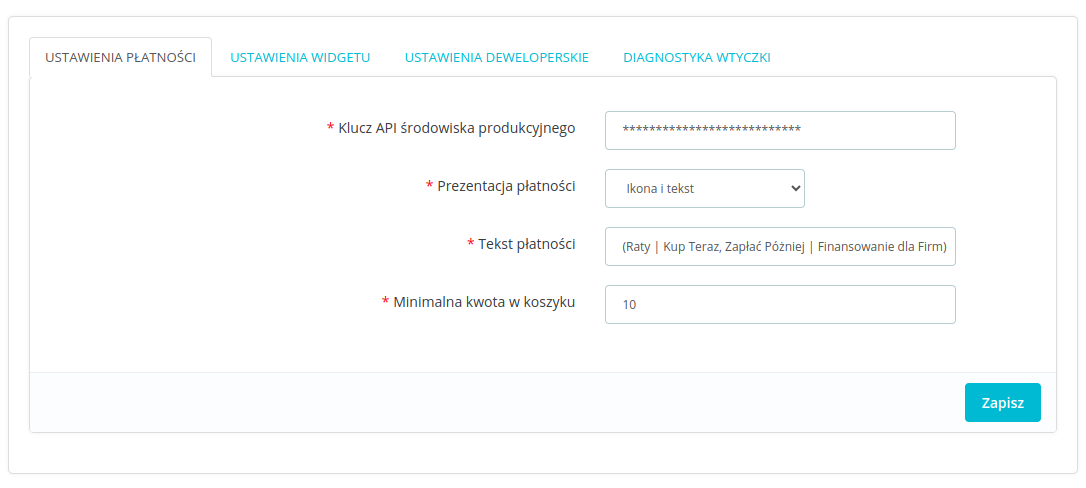
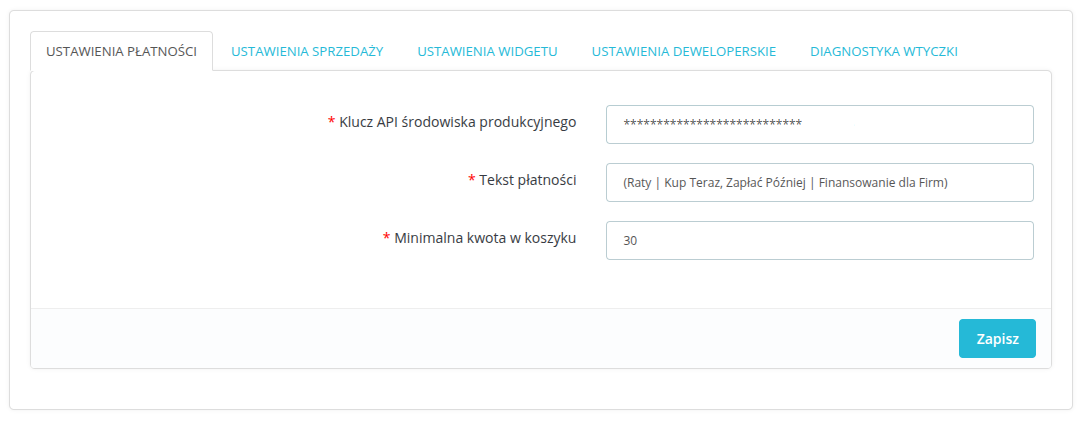
FN-12563 Documentation updated (PL version).

diff --git a/controllers/front/paywallitemdetails.php b/controllers/front/paywallitemdetails.php
@@ -66,6 +66,7 @@ class ComfinoPaywallItemDetailsModuleFrontController extends ModuleFrontControll
         );
 
         if (empty($loanTypeSelected)) {
+            // Financial product type not passed - return empty response.
             exit($serializer->serialize(['listItemData' => '', 'productDetails' => '']));
         }
 

diff --git a/docs/comfino.pl.md b/docs/comfino.pl.md
@@ -37,7 +37,6 @@ Pola parametrów konfiguracyjnych:
 **USTAWIENIA PŁATNOŚCI**
 
 * **Klucz API środowiska produkcyjnego** — unikalny klucz dostępowy umożliwiający komunikację modułu z API Comfino (otrzymasz go od przedstawiciela Comfino)
-* **Prezentacja płatności** — sposób prezentacji Comfino na liście metod płatności [`Tylko ikona`, `Tylko tekst`, `Ikona i tekst`]
 * **Tekst płatności** — tekst wyświetlany na liście metod płatności (domyślnie `"(Raty | Kup Teraz, Zapłać Później | Finansowanie dla Firm)"`)
 * **Minimalna kwota w koszyku** — wartość koszyka, od której dostępna jest płatność Comfino (domyślnie: 30 zł)
 
@@ -47,21 +46,23 @@ Pola parametrów konfiguracyjnych:
 
 Zakładka zawiera ustawienia dotyczące zarządzania sprzedażą.
 
-Reguły dostępności produktów finansowych (filtry kategorii produktowych) umożliwiają przypisanie płatności Comfino do określonych kategorii produktów. Filtry kategorii są podzielone na sekcje odpowiadające dostępnym metodom finansowania zakupów w ramach umowy zawartej z Comfino. Ponadto zarządzanie dostępnością płatności Comfino jest możliwe tylko dla następujących typów produktów finansowych: "Raty zero procent", "Zapłać później". Jeśli zawarta umowa nie zawiera jednej z tych pozycji lub wszystkich, to zakładka będzie zawierała listę drzew ograniczonych do tej jednej metody finansowania lub będzie zawierać listę drzew dla pozostałych typów produktów z umowy, w przypadku braku obecności w umowie produktów "Raty zero procent" i "Zapłać później". 
+Reguły dostępności produktów finansowych (filtry kategorii produktowych) umożliwiają przypisanie płatności Comfino do określonych kategorii produktów. Filtry kategorii są podzielone na sekcje odpowiadające dostępnym metodom finansowania zakupów w ramach umowy zawartej z Comfino. Ponadto zarządzanie dostępnością płatności Comfino jest możliwe tylko dla następujących typów produktów finansowych: "Raty zero procent", "Zapłać później", "Leasing". Jeśli zawarta umowa nie zawiera jednej z tych pozycji lub wszystkich, to zakładka będzie zawierała listę drzew ograniczonych do tej jednej metody finansowania lub będzie zawierać listę drzew dla pozostałych typów produktów z umowy, w przypadku braku obecności w umowie produktów "Raty zero procent", "Zapłać później" i "Leasing". 
 
 Domyślnie płatności Comfino są dostępne bezwarunkowo dla wszystkich typów produktów. W celu wyłączenia Comfino dla wybranych typów produktów należy odznaczyć odpowiednie kategorie w drzewie kategorii dla każdego typu oferty finansowej i kliknąć "Zapisz".
 
-![Konfiguracja](images/pl/configuration6.png "Konfiguracja")
+![Konfiguracja](images/pl/configuration2.png "Konfiguracja")
 
 **USTAWIENIA WIDGETU**
 
 **Ustawienia podstawowe**
 
 * **Widget włączony?** — przełącznik aktywacji/deaktywacji widgetu promocyjnego na stronie produktu
-* **Typ widgetu** — sposób prezentacji widgetu [`Widget tekstowy`, `Widget graficzny z banerem`, `Widget graficzny z kalkulatorem rat`, `Widget graficzny z rozszerzonym kalkulatorem rat`]
-* **Typ oferty** — typ promowanej oferty finansowania [`Raty zero procent`, `Niskie raty`, `Zapłać później`, `Odroczone płatności dla firm`]
+* **Typ widgetu** — sposób prezentacji widgetu [`Kalkulator rat`, `Rozszerzony kalkulator - produkty`]
+* **Typy ofert** — typy promowanych ofert finansowania [`Raty zero procent`, `Niskie raty`, `Zapłać później`, `Raty dla firm`, `Odroczone płatności dla firm`, `Leasing`]
 
 Dostępność typów ofert na liście jest uzależniona od indywidualnej umowy i może różnić się od tej opisanej w dokumentacji.
+
+![Konfiguracja](images/pl/configuration3a.png "Konfiguracja")
 
 **Ustawienia zaawansowane**
 
@@ -74,14 +75,20 @@ Dostępność typów ofert na liście jest uzależniona od indywidualnej umowy i
 
 Szczegółowe informacje o działaniu widgetu i jego opcjach konfiguracyjnych znajdziesz w osobnej [dokumentacji widgetu Comfino](https://comfino.pl/widgets/comfino-prestashop/pl).
 
-![Konfiguracja](images/pl/configuration2.png "Konfiguracja")
+![Konfiguracja](images/pl/configuration3b.png "Konfiguracja")
 
 **USTAWIENIA DEWELOPERSKIE**
 
 * **Użyj środowiska testowego** — przełącznik aktywacji/deaktywacji trybu deweloperskiego
 * **Klucz API środowiska testowego** — unikalny klucz dostępowy umożliwiający komunikację modułu z testowym API Comfino
+* **Tryb debugowania** — przełącznik aktywacji/deaktywacji trybu debugowania
+* **Tryb serwisowy** — przełącznik aktywacji/deaktywacji trybu serwisowego
 
-![Konfiguracja](images/pl/configuration3.png "Konfiguracja")
+Tryb debugowania przydaje się w przypadku problemów z dostępnością płatności Comfino. W tym trybie moduł rejestruje szczegóły wewnętrznego procesu odpowiedzialnego za wyświetlenie opcji płatności Comfino na liście metod płatności. Zaleca się korzystać z tej opcji wraz z aktywacją drugiej opcji `"Tryb serwisowy"` w celu minimalizacji zapisywanych logów.
+
+Tryb serwisowy jest przydatny do testowania bramki płatniczej Comfino bez konieczności udostępniania jej klientom. W tym trybie metoda płatności Comfino widoczna jest tylko dla wybranych sesji, a logi debugowania są zbierane wyłącznie dla tych sesji.
+
+![Konfiguracja](images/pl/configuration4.png "Konfiguracja")
 
 **Uwaga**
 
@@ -90,14 +97,12 @@ Przed uruchomieniem płatności na sklepie produkcyjnym, wyłącz tryb deweloper
 **DIAGNOSTYKA WTYCZKI**
 
 Zakładka zawiera informacje techniczne o wtyczce i środowisku (wersja wtyczki, wersja sklepu, wersja PHP i serwera www, itp.).\
-Zawiera też listę ostatnich błędów wraz z podglądem lokalnego dziennika błędów (log błędów).
+Zawiera też listę ostatnich błędów wraz z podglądem lokalnego dziennika błędów (log błędów) oraz listę z zapisanymi w trybie debug operacjami wewnętrznymi wtyczki (log trybu debugowania).
 
-![Konfiguracja](images/pl/configuration4.png "Konfiguracja")
+![Konfiguracja](images/pl/configuration5.png "Konfiguracja")
 
 Informacja o aktywności trybu deweloperskiego jest wyświetlana w zakładkach `"USTAWIENIA PŁATNOŚCI"` i `"DIAGNOSTYKA WTYCZKI"`.
 W trybie tym wtyczka używa klucza z zakładki `"USTAWIENIA DEWELOPERSKIE"` do komunikacji z testowym API Comfino. Klucz środowiska testowego również otrzymasz od przedstawiciela Comfino.
-
-![Konfiguracja](images/pl/configuration5.png "Konfiguracja")
 
 ## UWAGI
 
